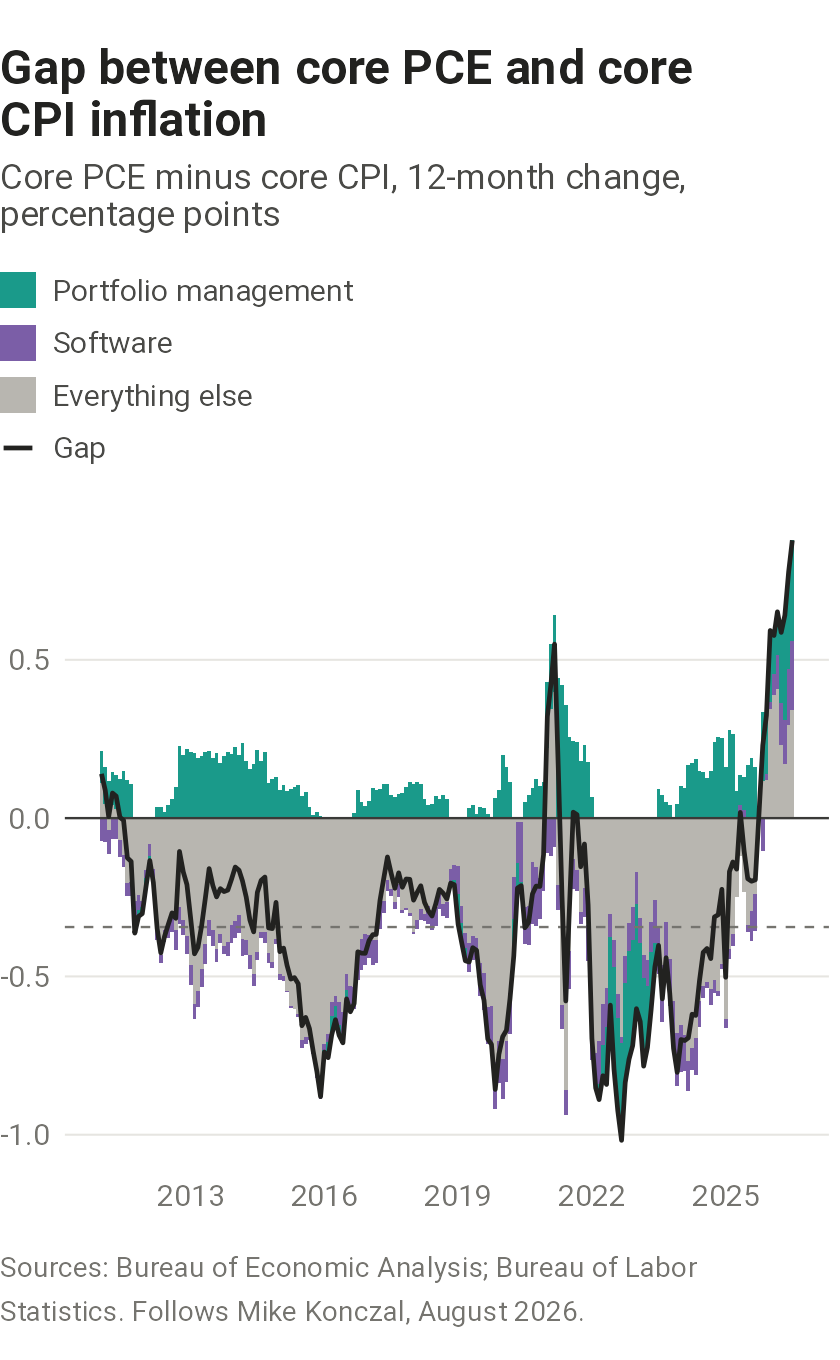
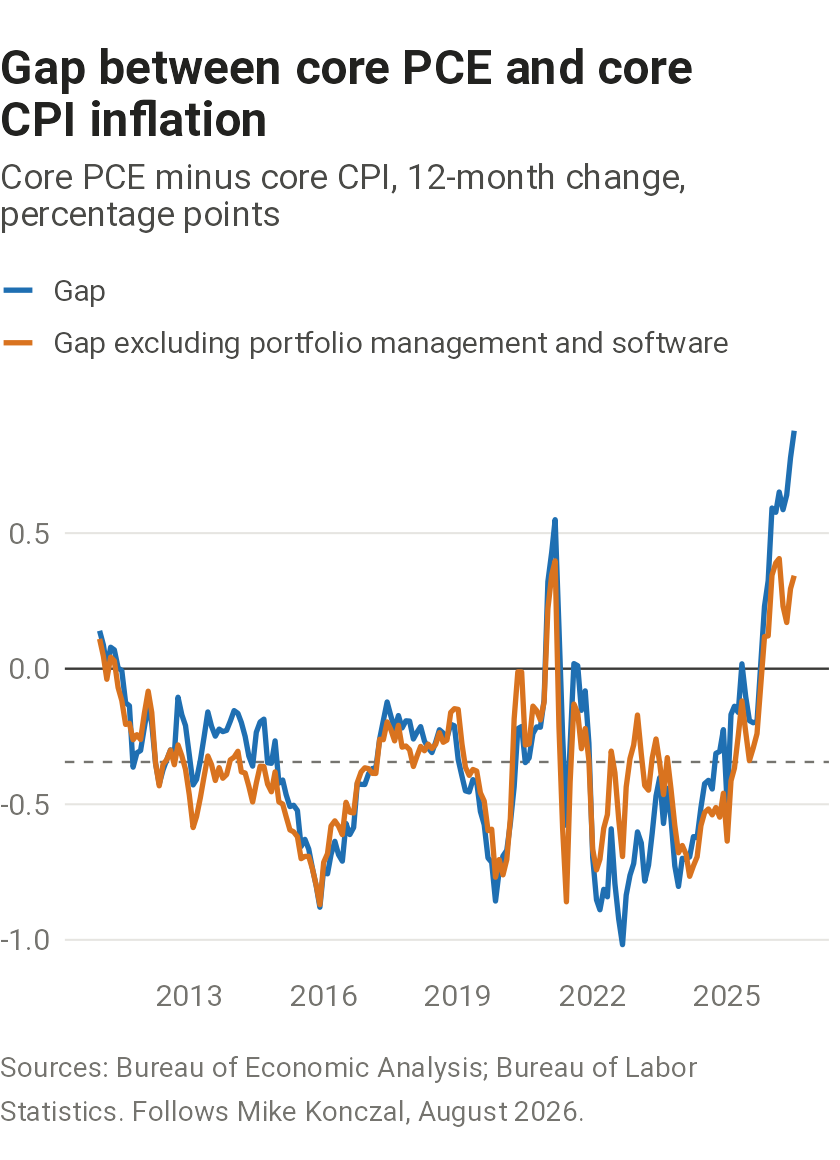
Add the gap between core PCE and core CPI inflation to the inflation page
Two lines, the gap and the gap excluding portfolio management and
software, following Konczal (August 2026). reproduce.R checks his
published figures for July 2026.

Claude-Session: https://claude.ai/code/session_01C4kQtTHdakDNHHerQuEFwM

diff --git a/charts/pce-cpi-gap/spec.md b/charts/pce-cpi-gap/spec.md
@@ -1,0 +1,58 @@
+# Gap between core PCE and core CPI inflation
+
+Status: built in R from BEA's monthly NIPA files and BLS core CPI from FRED (fetched September 27, 2026, through July 2026). `reproduce.R` checks Konczal's numbers.
+
+## Question
+
+How far apart are core PCE and core CPI inflation, and how much of the difference comes from portfolio management and software, two items weighted far more heavily in PCE?
+
+## Original analysis
+
+Mike Konczal, "Is the Actual Inflation Rate PCE and High or CPI and Low?", August 28, 2026. https://newsletter.mikekonczal.com/p/is-the-actual-inflation-rate-pce. Charts the 12-month core CPI and core PCE rates and their difference back to 1960, as core CPI minus core PCE. Quotes core PCE 3.34 and core CPI 2.47 percent over the 12 months to July 2026, a 0.87 point difference; an average of 0.34 point with CPI higher from 2011 to 2019; portfolio management accounting for about 0.31 point; and software weights of 1.10 percent in PCE against 0.03 percent in CPI. Cites Goldman Sachs's estimate that BEA's annual update lowers core PCE by about 0.2 point, and BEA table 9.1U for the full reconciliation.
+
+## Sources
+
+| Data | Provider | Fetch | Series |
+|---|---|---|---|
+| Core PCE prices and spending | BEA, NIPA tables 2.4.4U and 2.4.5U, monthly | `fetch_bea_nipa(frequency = "M")` | DPCCRG, DPCCRC |
+| Portfolio management and investment advice services | same | same | DPMIRG, DPMIRC |
+| Computer software and accessories | same | same | DCPSRG, DCPSRC |
+| Core CPI, seasonally adjusted | BLS, from FRED | `tidyusmacro::getFRED()` | CPILFESL |
+| Total PCE spending, for the software weight check | BEA | `fetch_bea_nipa(frequency = "M")` in `reproduce.R` | DPCERC |
+
+## Transformations
+
+- Gap = 12-month percent change in core PCE minus 12-month percent change in core CPI. The sign is the reverse of Konczal's, so a positive gap means PCE is higher.
+- Portfolio management is removed from core PCE, then software from the remainder, with the residual Fisher method used in `charts/inflation-measures/`. Each item's part of the gap is how much core PCE's 12-month change falls when it is removed. Portfolio management is outside the CPI's scope, and software's CPI weight is about 0.03 percent, so the CPI side is left unchanged.
+- Gap excluding portfolio management and software = gap minus both parts.
+- Dashed line = average gap, January 2011 to December 2019.
+- The chart starts in 2011; the CSV runs from 1960.
+
+## Vintages
+
+- `data/bea_pce_<last month>.csv` and `data/fred_core_cpi_<last month>.csv`. Neither download carries a release date, so each is named by the last month of PCE data.
+- BEA's annual update, due with the next PCE release, brings new source data for software, portfolio management, and legal services. Rerun and report how much the gap and both parts move.
+- Seasonal factors for CPI are revised each February for the past five years.
+
+## Reproduction status, July 2026
+
+| Check | Konczal | Ours |
+|---|---|---|
+| Core PCE, 12 months | 3.34 | 3.34 |
+| Core CPI, 12 months | 2.47 | 2.47 |
+| Gap | 0.87 | 0.88 |
+| Average gap, 2011 to 2019 (CPI minus PCE) | 0.34 | 0.34 |
+| Portfolio management's part | about 0.31 | 0.32 |
+| Software, percent of PCE spending | 1.10 | 1.08 |
+
+The gap differs in the second decimal because Konczal subtracts rounded rates. His method for the portfolio management figure isn't stated.
+
+## Known breaks and caveats
+
+- The split covers two items only. BEA's table 9.1U reconciles headline PCE and CPI monthly into formula, weight, scope, and other effects, but not core inflation over 12 months.
+- Removing items in a different order changes each part slightly, since the Fisher formula isn't additive.
+
+## Decision log
+
+- 2026-09-27: Two lines, the gap and the gap excluding portfolio management and software, instead of stacked monthly contributions, which were hard to read. Starts in 2011 to include the 2011 to 2019 comparison period Konczal uses.
+- 2026-09-27: Descriptive title, "Gap between core PCE and core CPI inflation," and no interpretation on the page, in line with the site's no-commentary rule.

diff --git a/CLAUDE.md b/CLAUDE.md
@@ -22,7 +22,7 @@ Interpretation, such as what a refresh changed and what it might mean, goes to m
 
 - **The AI economy**: `charts/ai-investment-gdp/`, `charts/ai-adoption/`, `charts/productivity-decomposition/`.
 - **Interest rates**: `charts/yield-decomposition/`, `charts/yield-rise-by-model/`, `charts/duration-supply/`. Candidate: the 10-year yield split into inflation-protected yield and breakeven inflation, with the 2-year yield.
-- **Inflation**, started September 2026: `charts/inflation-measures/` and `charts/inflation-breadth/` (breadth reproduces Warsh's share of PCE categories rising faster than 3 percent). Planned, one question each: why PCE runs above CPI (Konczal), supply- versus demand-driven inflation (San Francisco Fed), tariffs (St. Louis Fed method, checked against the April 2026 FEDS Note), AI's contribution (software and electricity prices), and inflation expectations. Release-day tools (PCE implied by CPI and PPI, surprises) come later; surprises need a public benchmark, such as the Cleveland Fed nowcast, since consensus forecasts are proprietary.
+- **Inflation**, started September 2026: `charts/inflation-measures/`, `charts/inflation-breadth/` (reproduces Warsh's share of PCE categories rising faster than 3 percent), and `charts/pce-cpi-gap/` (follows Konczal on the gap between core PCE and core CPI). Planned, one question each: supply- versus demand-driven inflation (San Francisco Fed), tariffs (St. Louis Fed method, checked against the April 2026 FEDS Note), AI's contribution (software and electricity prices), and inflation expectations. Release-day tools (PCE implied by CPI and PPI, surprises) come later; surprises need a public benchmark, such as the Cleveland Fed nowcast, since consensus forecasts are proprietary.
 
 ## Chart candidates
 

diff --git a/charts/pce-cpi-gap/output/pce-cpi-gap-notes.md b/charts/pce-cpi-gap/output/pce-cpi-gap-notes.md
@@ -2,11 +2,7 @@
 
 **Gap:** The 12-month change in core PCE prices minus the 12-month change in core CPI prices. Both leave out food and energy.
 
-**Portfolio management:** Fees for managing investments and giving investment advice, which move with stock prices. In PCE, not in CPI.
-
-**Software:** Computer software and accessories bought by consumers, which weigh far more in PCE than in CPI.
-
-**Everything else:** The rest of the gap, from differences in coverage, weights, and formulas.
+**Gap excluding portfolio management and software:** The same gap with two items taken out of core PCE: fees for managing investments and giving investment advice, which are in PCE but not CPI, and computer software and accessories, which weigh far more in PCE than in CPI.
 
 **Dashed line:** The average gap from 2011 to 2019.
 
